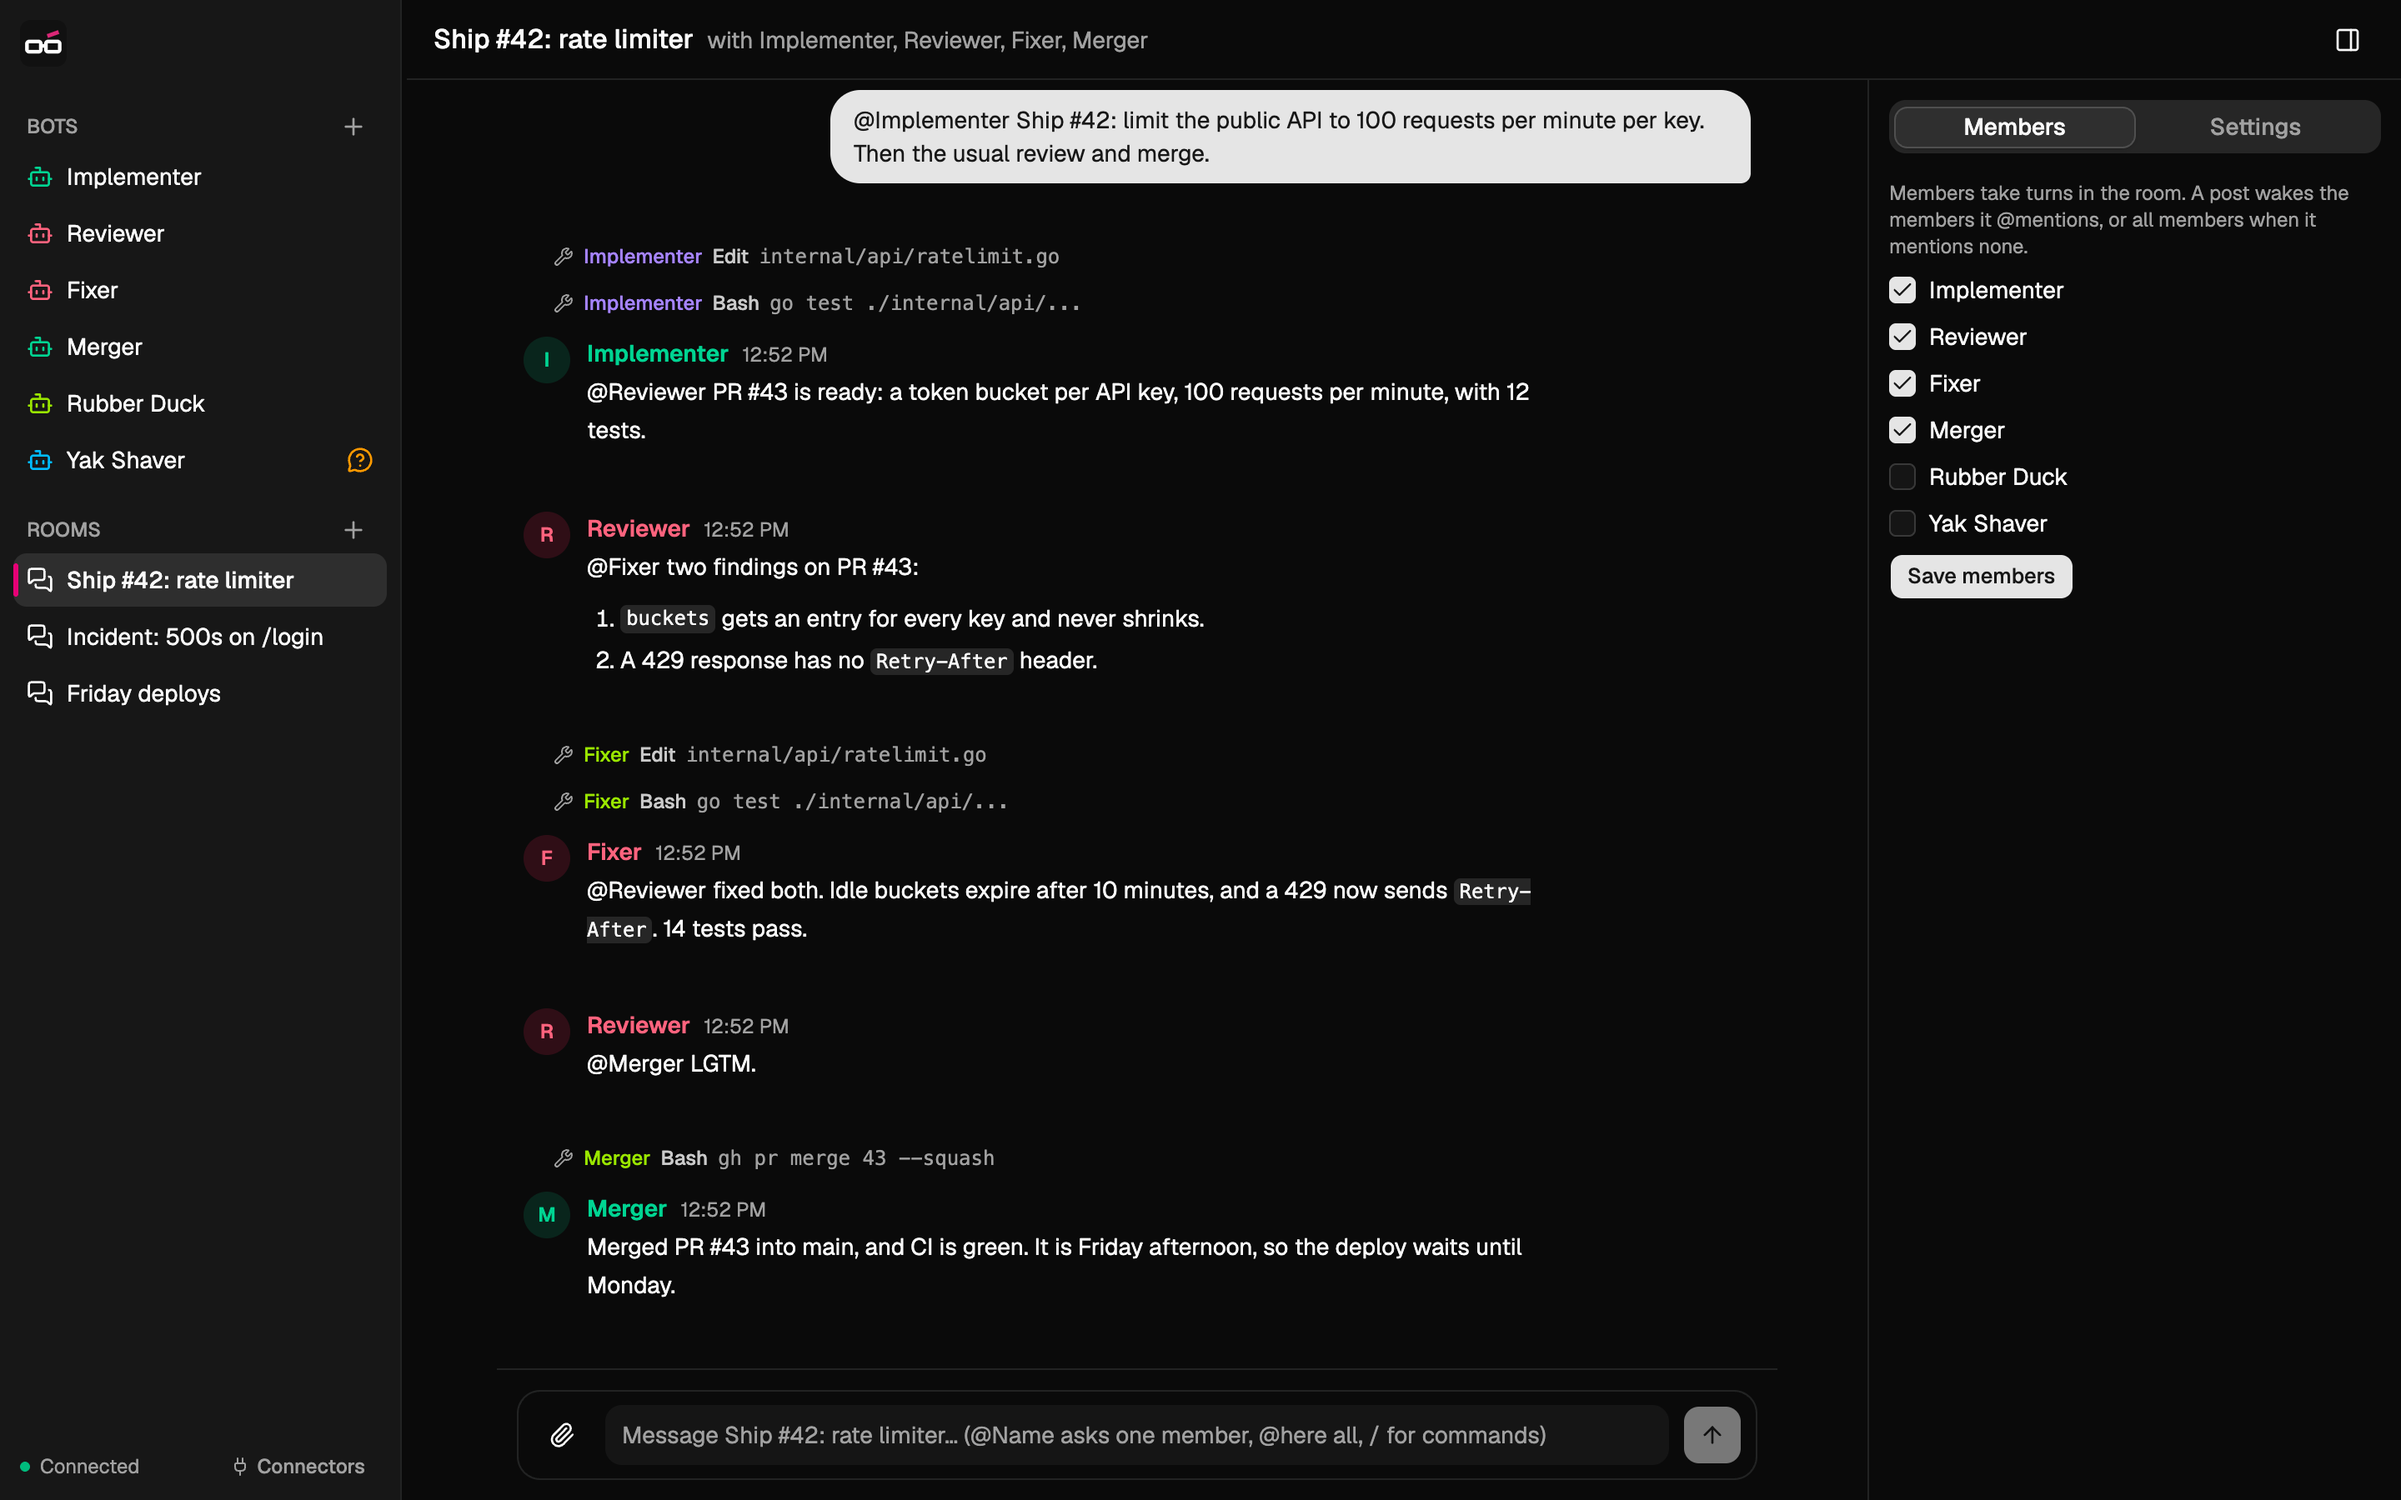
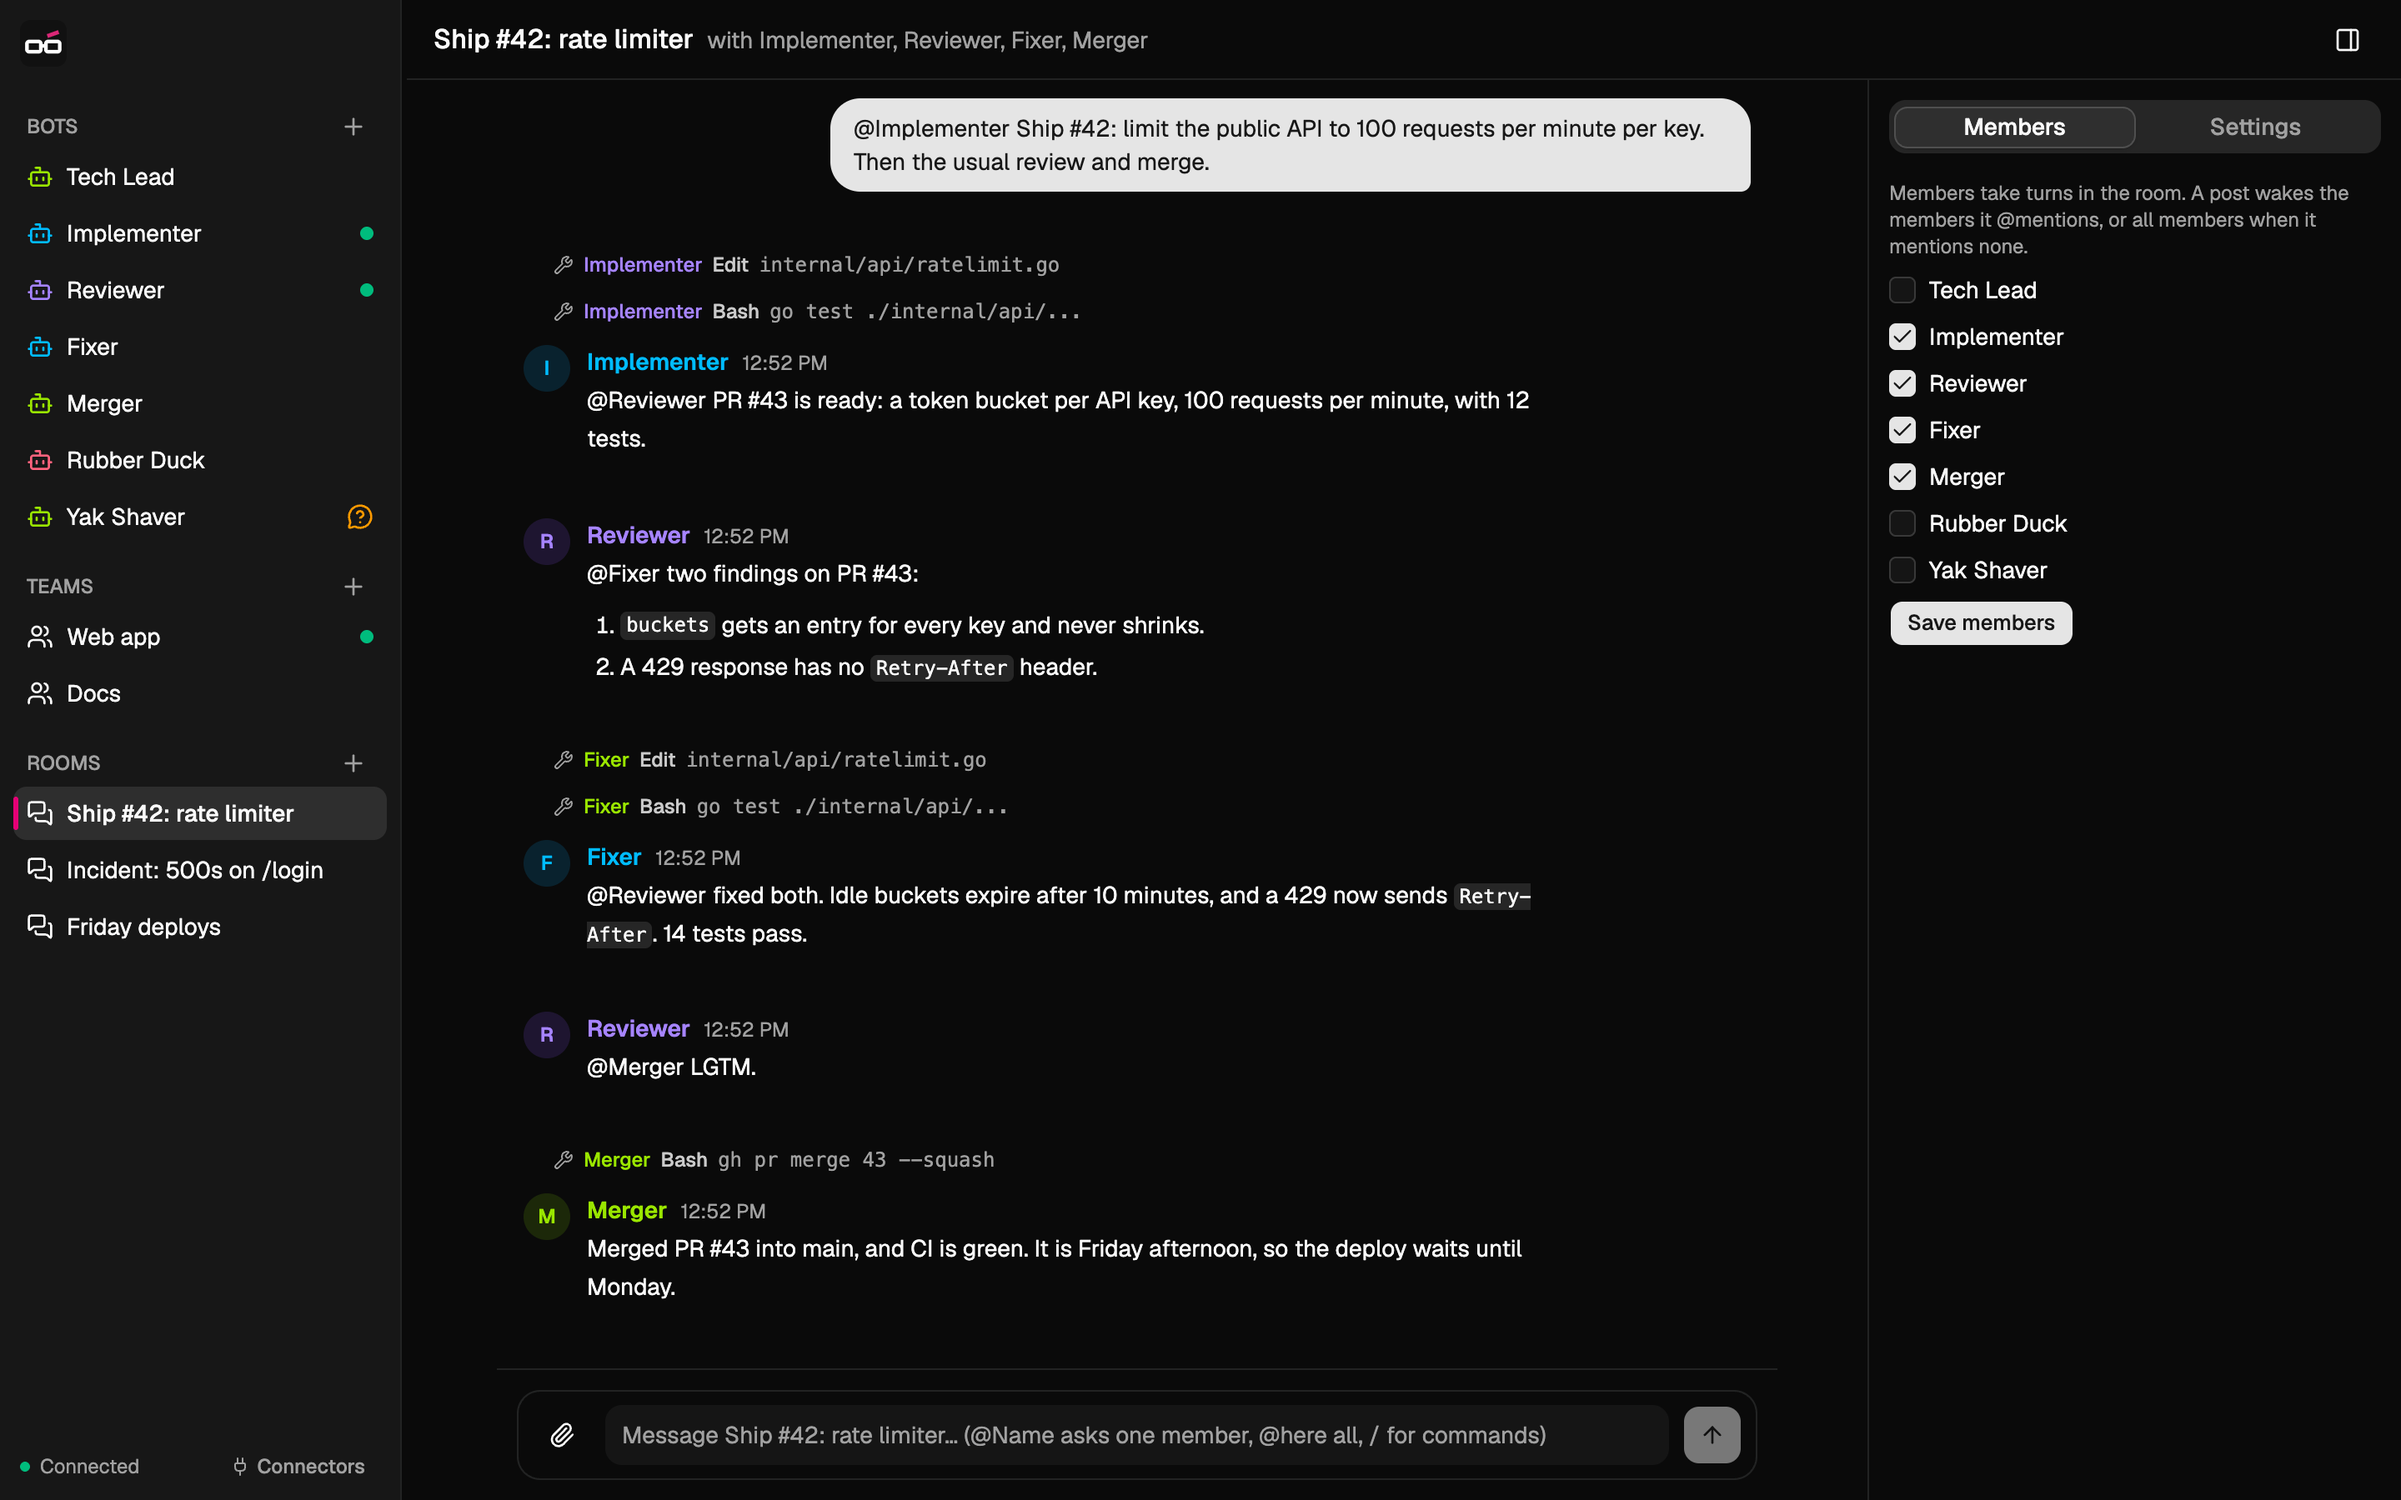
Show teams on yargpt.com and link the download to the latest release
yargpt.com did not mention teams, and its screenshots showed the app
from before teams. The site also linked a fixed version, 0.2.0, that
someone had to raise by hand after each release. The release workflow
could not publish to a release that already exists, so a release
published on GitHub, such as v0.3.0, got no zip.

Add a Teams chapter with a screenshot of a team at work on a goal, and
replace the two older screenshots with ones of the current app. Link
the download buttons to releases/latest/download/YarGPT-universal-mac.zip
and drop the fixed version from the page. The release job now uploads
the zip under that name, which does not change between releases, to
the tag's release when it exists, and creates the release otherwise.

The latest link stays correct without a site change for each release,
and every release gets its zip, however it was created.

diff --git a/web/src/release.ts b/web/src/release.ts
@@ -1,3 +1,1 @@
-export const version = "0.2.0";
-
-export const macDownloadUrl = `https://github.com/yarlson/yargpt/releases/download/v${version}/YarGPT-${version}-universal-mac.zip`;
+export const macDownloadUrl = "https://github.com/yarlson/yargpt/releases/latest/download/YarGPT-universal-mac.zip";

diff --git a/README.md b/README.md
@@ -28,7 +28,7 @@ Open <http://127.0.0.1:7777>. YarGPT keeps all its data in `~/.yargpt`.
 
 On a Mac, you can use an app instead. It keeps the server running in the background, from login on, with an icon in the menu bar. It runs on Apple silicon and Intel Macs.
 
-1. Download `YarGPT-<version>-universal-mac.zip` from the [releases](https://github.com/yarlson/yargpt/releases), unzip it, and move `YarGPT.app` to `/Applications`.
+1. Download `YarGPT-universal-mac.zip` from the [latest release](https://github.com/yarlson/yargpt/releases/latest), unzip it, and move `YarGPT.app` to `/Applications`.
 2. Open the app. If macOS asks, turn on YarGPT in System Settings › General › Login Items & Extensions.
 
 To build the app yourself, run `make app` and move `desktop/dist/mac-arm64/YarGPT.app` (`desktop/dist/mac/YarGPT.app` on an Intel Mac) to `/Applications`. A copy that you build has an ad-hoc signature; macOS opens it because it was not downloaded.
@@ -309,7 +309,7 @@ Routines that start on events (only schedules work now), per-bot Claude Code plu
 
 ### Releases
 
-Push a tag such as `v0.2.0` to release; the tag must be a version, such as `v0.2.0` or `v0.2.0-rc.1`. `.github/workflows/release.yml` then runs `make app-universal VERSION=0.2.0` on a macOS runner, which signs the app with a Developer ID and the hardened runtime and has Apple notarize it, and creates a GitHub release with the zip. A tag with a hyphen, such as `v0.2.0-rc.1`, makes a pre-release. After the release exists, set `version` in `web/src/release.ts` to the new version, so that yargpt.com links the new zip.
+Push a tag such as `v0.2.0` to release; the tag must be a version, such as `v0.2.0` or `v0.2.0-rc.1`. `.github/workflows/release.yml` then runs `make app-universal VERSION=0.2.0` on a macOS runner, which signs the app with a Developer ID and the hardened runtime and has Apple notarize it, and uploads the zip as `YarGPT-universal-mac.zip` to the release of the tag. When no such release exists, it creates one; a tag with a hyphen, such as `v0.2.0-rc.1`, makes a pre-release. When you publish a release on GitHub, which also pushes its tag, the release keeps your title and notes. yargpt.com links `releases/latest/download/YarGPT-universal-mac.zip`, so it needs no change for a new release.
 
 ### Checks
 
